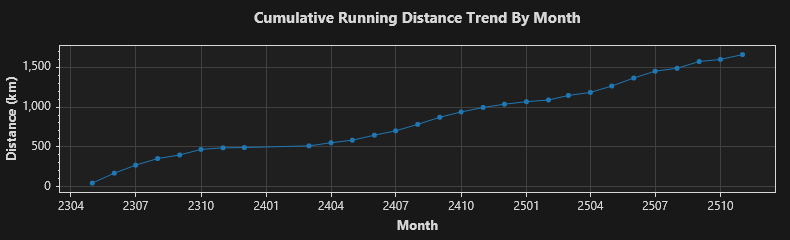
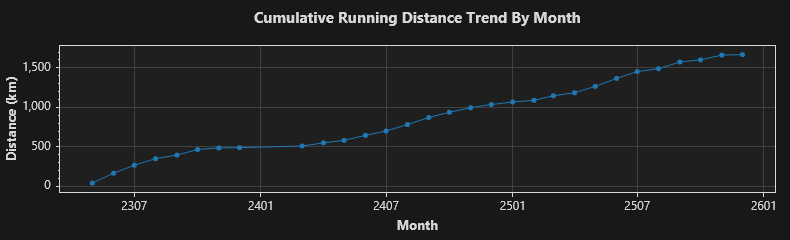
2025/12/1 跑步 6.01 公里

diff --git a/trend.md b/trend.md
@@ -1,4 +1,4 @@
-### Total: 279 days, 1661.42 km.
+### Total: 280 days, 1667.43 km.
 
 
 ![Monthly](https://github.com/prime167/MyRunningLog/blob/main/data/CumulativeTrendByMonth.png)
